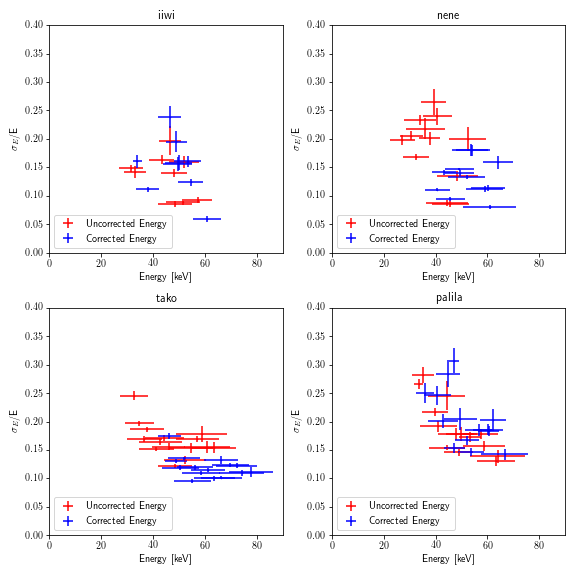
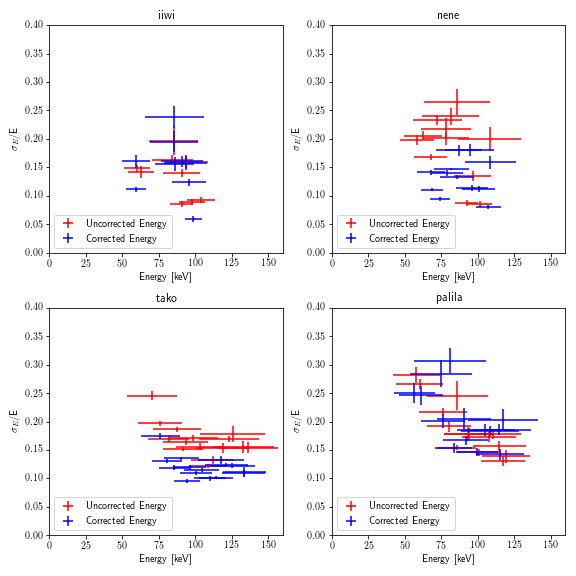
new updates

diff --git a/analysis/phase3/new_analysis.py b/analysis/phase3/new_analysis.py
@@ -19,14 +19,30 @@ class analysis:
         self.LER_decay_avg = self.compute_means_and_errs("LER", "Decay")
         self.HER_decay_avg = self.compute_means_and_errs("HER", "Decay")
     
-    def get_raw_study_data(self, input_file= "/Users/vahsengrouplaptop/data/phase3/spring_2020/05-09-20/combined_ntuples/05-09_whole_study_new.root"):
+    def get_raw_study_data(self, input_file= "/Users/vahsengrouplaptop/data/phase3/spring_2020/05-09-20/combined_ntuples/05-09_whole_study_newest.root"):
         study_data = rp.read_root(input_file)
         return study_data
+
+    def get_tpc_data(self, input_dir = '/Users/vahsengrouplaptop/data/phase3/spring_2020/05-09-20/tpc_root_files/'):
+        data = {}
+        tpcs = ['iiwi', 'humu', 'nene', 'tako', 'palila', 'elepaio']
+        for tpc in tpcs:
+            data[tpc] = rp.read_root(input_dir + "%s_all_new_recoils_only.root"%(tpc))
+        return data
 
     def select_study(self, study_type, study_period): #LER, HER, Lumi, Cont_inj, Decay
         raw_data = self.get_raw_study_data()
         study_data = raw_data.loc[(raw_data['%s_study_flag'%(study_type)]==1) & (raw_data['%s_flag'%(study_period)] == 1)]
         return study_data
+
+    def get_tpc_data_during_study_period(self, study_type, study_period):
+        study_data = self.select_study(study_type, study_period)
+        tpc_data = self.get_tpc_data()
+        tpcs = tpc_data.keys()
+        tpc_study_data = {}
+        for tpc in tpcs:
+            tpc_study_data[tpc] = tpc_data[tpc].loc[(tpc_data[tpc]['timestamp_start'].astype('int')).isin(study_data['ts'].astype('int'))==True]
+        return tpc_study_data
 
     def partition_data_into_subsets(self, study_type, study_period, bins=10):
         study_data = self.select_study(study_type, study_period)
@@ -133,10 +149,17 @@ class analysis:
             partitions = [data[study_period].index.to_list()[0]] + data[study_period].loc[np.abs(data[study_period]['ts'].diff())>100].index.to_list() + [data[study_period].index.to_list()[len(data[study_period])-1]]
             indices = []
             for i in range(0,len(partitions)-1):
-                indices += [i for i in range(partitions[i], partitions[i+1])]
-            plt.fill_between(data[study_period]['ts'][indices], (fit_bg[study_period][indices]-fit_bg_err[study_period][indices]), (fit_bg[study_period][indices]+fit_bg_err[study_period][indices]), 'o', color = 'cyan', alpha = 0.3, label = 'Predicted beam-gas rate')
-            plt.fill_between(data[study_period]['ts'][indices], (fit_t[study_period][indices]-fit_t_err[study_period][indices]), (fit_t[study_period][indices]+fit_t_err[study_period][indices]), 'o', color = 'limegreen', alpha = 0.3, label = 'Predicted Touschek rate')
-            plt.fill_between(data[study_period]['ts'][indices], (fit[study_period][indices]-fit_err[study_period][indices]), (fit[study_period][indices]+fit_err[study_period][indices]), 'o', color = 'magenta', alpha = 0.3, label = 'Predicted total rate')
+                indices = [i for i in range(partitions[i], partitions[i+1])]
+                data_tmp = data[study_period].loc[data[study_period].index.isin(indices) == True]
+                fit_bg_tmp = fit_bg[study_period].loc[fit_bg[study_period].index.isin(indices) == True]
+                fit_bg_err_tmp = fit_bg_err[study_period].loc[fit_bg_err[study_period].index.isin(indices) == True]
+                fit_t_tmp = fit_t[study_period].loc[fit_t[study_period].index.isin(indices) == True]
+                fit_t_err_tmp = fit_t_err[study_period].loc[fit_t_err[study_period].index.isin(indices) == True]
+                fit_tmp = fit[study_period].loc[fit[study_period].index.isin(indices) == True]
+                fit_err_tmp = fit_err[study_period].loc[fit_err[study_period].index.isin(indices) == True]
+                plt.fill_between(data_tmp['ts'], (fit_bg_tmp-fit_bg_err_tmp), (fit_bg_tmp+fit_bg_err_tmp), 'o', color = 'cyan', alpha = 0.3, label = 'Predicted beam-gas rate')
+                plt.fill_between(data_tmp['ts'], (fit_t_tmp-fit_t_err_tmp), (fit_t_tmp+fit_t_err_tmp), 'o', color = 'limegreen', alpha = 0.3, label = 'Predicted Touschek rate')
+                plt.fill_between(data_tmp['ts'], (fit_tmp-fit_err_tmp), (fit_tmp+fit_err_tmp), 'o', color = 'magenta', alpha = 0.3, label = 'Predicted total rate')
         plt.ylim(-0.01,ymax)
         plt.ylabel('Rate[Hz]')
         if legend == True:
@@ -169,7 +192,7 @@ class analysis:
         else:
             ymax = 0.05
         plt.subplot(3,1,1)
-        self.plot_fit("palila", study_type, bins, ymax, legend = False)
+        self.plot_fit("palila", study_type, bins, ymax, legend = True)
         plt.title("Palila (z = -5.6 m)")
         plt.subplot(3,1,2)
         self.plot_fit("tako", study_type, bins, ymax)

diff --git a/data_processing/make_combined_ntuple_module.py b/data_processing/make_combined_ntuple_module.py
@@ -69,7 +69,12 @@ def merge_TPC_rates_with_SKB(df_TPC, ts_range):
 def make_TPC_dataframe(tpc_input, module_id): #tpc_input is a dictionary of files with module_id's as keys
     df_TPC = read_root(tpc_input[module_id], "data")
     #df_TPC['recoil_energy'] = df_TPC['recoil_energy']/1000
-    df_TPC_neutron = df_TPC.iloc[df_TPC.loc[(df_TPC.track_energy < (0.7*df_TPC.length-75)) & (df_TPC.track_energy > (0.015*df_TPC.length-65)) & (df_TPC.track_energy > 20) & (df_TPC.hitside_col_min == 0) & (df_TPC.hitside_row_min == 0) & (df_TPC.hitside_col_max == 0) & (df_TPC.hitside_row_max == 0)].index] #dataframe for TPC nuclear recoils
+    cut_min = np.array([ 4.26706827e-06,  1.33283133e-02, -9.98995984e+00])
+    cut_max = np.array([ 5.38152610e-06,  2.73975904e-02, -1.21285141e+01])
+    ekey = 'full_corrected_energy'
+    df_TPC = df_TPC.loc[df_TPC[ekey]>20]
+    df_TPC_neutron = df_TPC.loc[(df_TPC['length']<1700) | ((df_TPC[ekey] > (cut_min[0]*df_TPC['length']**2 + cut_min[1]*df_TPC['length']+cut_min[2])) & (df_TPC['length'] >= 1700))]
+    #df_TPC_neutron = df_TPC.iloc[df_TPC.loc[(df_TPC.track_energy < (0.7*df_TPC.length-75)) & (df_TPC.track_energy > (0.015*df_TPC.length-65)) & (df_TPC.track_energy > 20) & (df_TPC.hitside_col_min == 0) & (df_TPC.hitside_row_min == 0) & (df_TPC.hitside_col_max == 0) & (df_TPC.hitside_row_max == 0)].index] #dataframe for TPC nuclear recoils
     return df_TPC_neutron
 
 ##Make dataframe of SKB variables relevant for study

diff --git a/data_processing/generate_combined_ntuple.py b/data_processing/generate_combined_ntuple.py
@@ -18,7 +18,7 @@ tpc_input = {}
 for module in module_id:
     tpc_input[module] = "/Users/vahsengrouplaptop/data/phase3/spring_2020/05-09-20/tpc_root_files/%s_all_new.root"%(module)
 study_indices = [i for i in range(0,34000)]
-output_f = '/Users/vahsengrouplaptop/data/phase3/spring_2020/05-09-20/combined_ntuples/05-09_whole_study_new.root'
+output_f = '/Users/vahsengrouplaptop/data/phase3/spring_2020/05-09-20/combined_ntuples/05-09_whole_study_newest.root'
 make_ntuple(SKB_input, tpc_input, study_indices, output_f)
 '''
 month = sys.argv[1] #month of study
